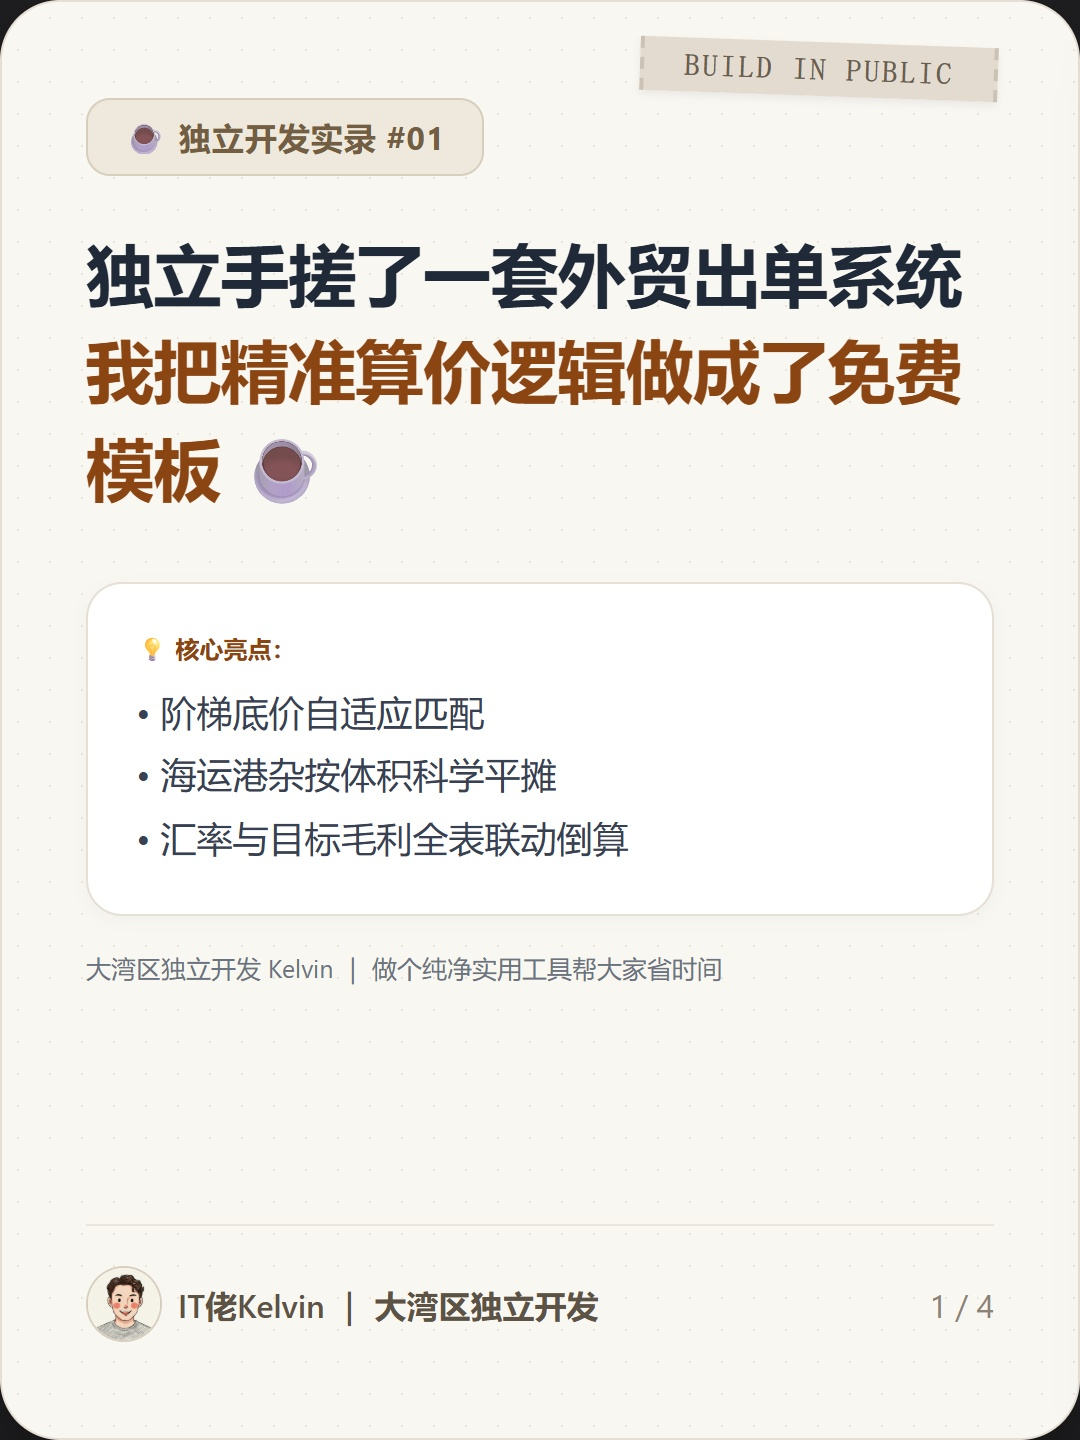
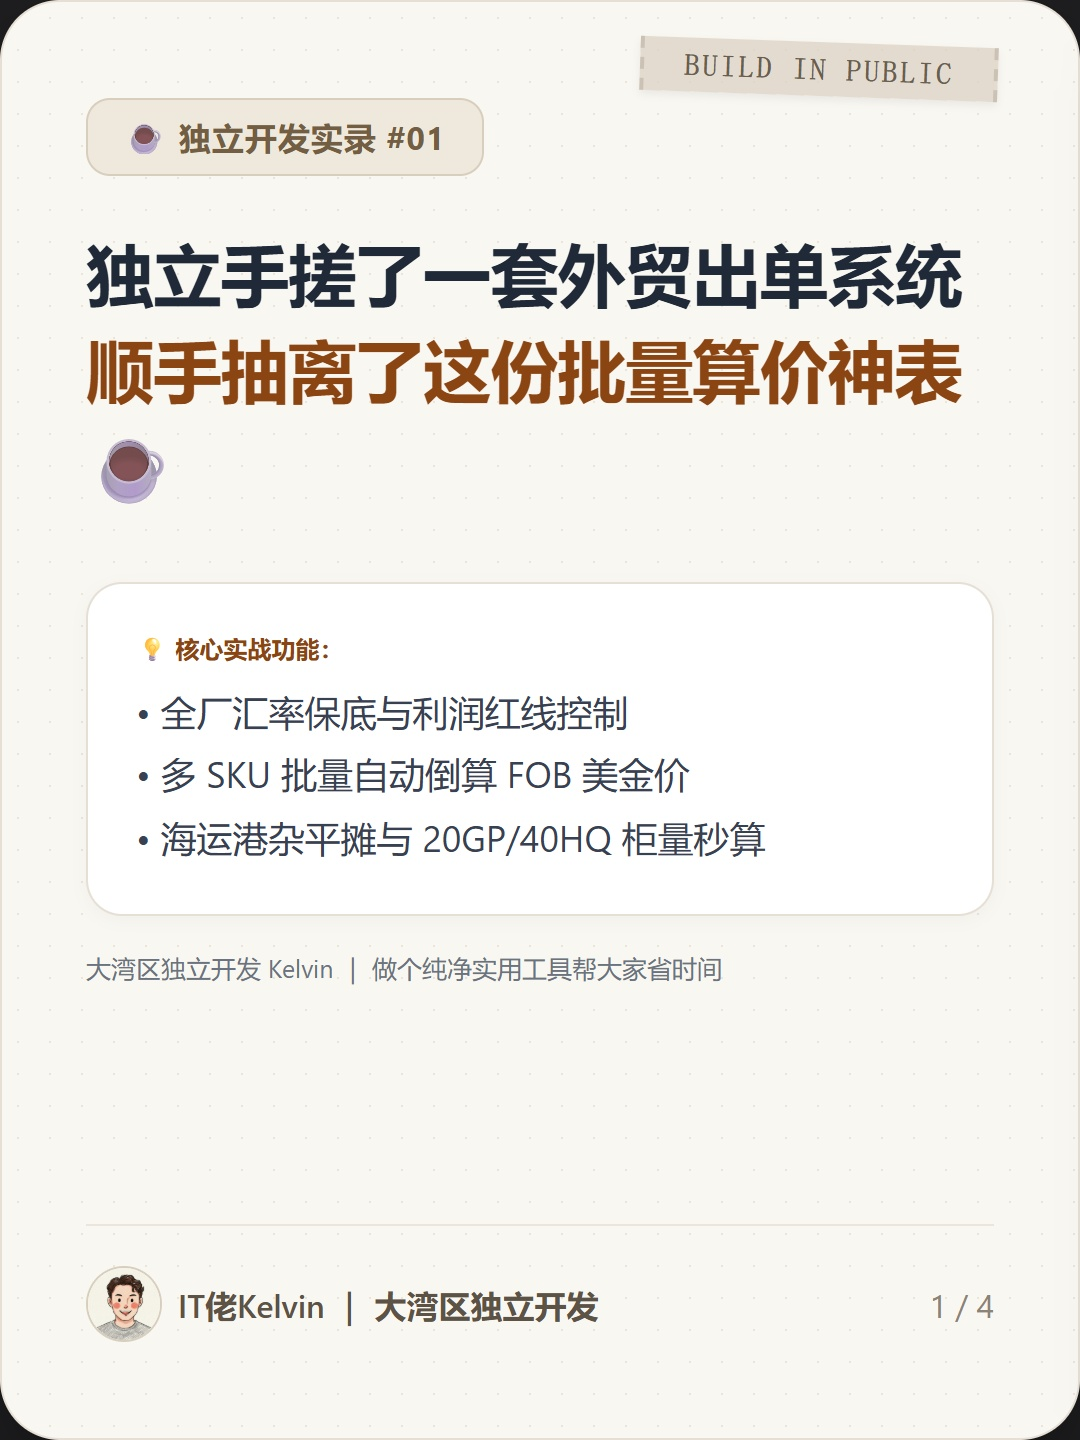
feat(lead_magnet): upgrade to KelvinFlow-native multi-SKU batch pricing master template

Changed region(s): [[0.0611, 0.2188, 0.8861, 0.375], [0.1528, 0.4375, 0.7028, 0.5938]]

diff --git a/cards/post1_carousel.html b/cards/post1_carousel.html
@@ -234,15 +234,15 @@
         <div class="tag tag-warm">☕ 独立开发实录 #01</div>
         <div class="card-title">
           独立手搓了一套外贸出单系统<br/>
-          <span class="highlight-brand">我把精准算价逻辑做成了免费模板 ☕</span>
+          <span class="highlight-brand">顺手抽离了这份批量算价神表 ☕</span>
         </div>
       </div>
       <div class="card-body">
         <div class="memo-box">
-          <div style="font-size: 12px; color: #8B4513; font-weight: bold; margin-bottom: 6px;">💡 核心亮点：</div>
-          <div>• 阶梯底价自适应匹配</div>
-          <div>• 海运港杂按体积科学平摊</div>
-          <div>• 汇率与目标毛利全表联动倒算</div>
+          <div style="font-size: 12px; color: #8B4513; font-weight: bold; margin-bottom: 6px;">💡 核心实战功能：</div>
+          <div>• 全厂汇率保底与利润红线控制</div>
+          <div>• 多 SKU 批量自动倒算 FOB 美金价</div>
+          <div>• 海运港杂平摊与 20GP/40HQ 柜量秒算</div>
         </div>
         <p style="font-size: 12.5px; color: #6B7280; margin-top: 6px;">
           大湾区独立开发 Kelvin ｜ 做个纯净实用工具帮大家省时间
@@ -271,15 +271,15 @@
         <div class="memo-box">
           <div class="memo-row">
             <span>📌</span>
-            <span><b>型号繁多翻找费力</b>：买家询盘数量不一，要在底价表里逐个找阶梯底价；</span>
+            <span><b>型号繁多逐个重算</b>：买家发来一堆 SKU，要在表格里一个个按计算器换算；</span>
           </div>
           <div class="memo-row">
             <span>📌</span>
-            <span><b>港杂平摊容易漏算</b>：海运固定杂费与报关费漏分摊，导致单单利润算薄；</span>
+            <span><b>港杂平摊容易漏算</b>：海运进仓与报关费漏平摊，导致单单利润被吃空；</span>
           </div>
           <div class="memo-row">
             <span>📌</span>
-            <span><b>汇率变动反复修改</b>：结汇汇率波动，需要一个个 SKU 重算美金单价。</span>
+            <span><b>汇率波动利润穿底</b>：汇率一跌慌忙改价，缺乏底线毛利自动预警。</span>
           </div>
         </div>
       </div>
@@ -299,26 +299,26 @@
         <div class="tag tag-blue">🛠 提炼自独立开发引擎</div>
         <div class="card-title">
           给外贸老友的轻量解法：<br/>
-          <span class="highlight-brand">《外贸精准核价 Excel 模板》</span>
+          <span class="highlight-brand">《外贸出厂核算与批量算价神表》</span>
         </div>
       </div>
       <div class="card-body">
         <div class="memo-box">
           <div class="memo-row">
             <span>✅</span>
-            <span><b>阶梯底价自动匹配</b>：输入采购数量，自动命中底价；</span>
+            <span><b>全局汇率与风控台</b>：锁定汇率与保底毛利，全厂产品即时生效；</span>
           </div>
           <div class="memo-row">
             <span>✅</span>
-            <span><b>FOB 港杂科学平摊</b>：按体积自动分摊单件成本；</span>
+            <span><b>多 SKU 批量自动倒算</b>：录入底价装箱量，右侧秒出美金价与柜量；</span>
           </div>
           <div class="memo-row">
             <span>✅</span>
-            <span><b>目标毛利汇率联动</b>：填入汇率毛利，精准倒算美金价；</span>
+            <span><b>单件港杂科学平摊</b>：自动均摊进仓费与港杂，彻底杜绝隐形亏损；</span>
           </div>
           <div class="memo-row">
             <span>✅</span>
-            <span><b>核心公式锁定保护</b>：绿色填数黄色出结果，防误改。</span>
+            <span><b>买家脱敏报价单导出</b>：底价全脱敏，一键导出正式纯净外贸报价单。</span>
           </div>
         </div>
       </div>
@@ -345,11 +345,11 @@
         <div class="memo-box">
           <div style="font-weight: 700; color: #2E7D32; margin-bottom: 8px;">📦 获取方式：</div>
           <div style="line-height: 1.65;">
-            进入主页点击<b>【群聊】</b>进官方交流群，在<b>【群文件】</b>即可直接免费下载《2026外贸精准核价Excel模板》。
+            进入主页点击<b>【群聊】</b>进官方交流群，在<b>【群文件】</b>即可直接免费下载《2026外贸出厂核算控制台与批量算价神表_Kelvin旗舰版》。
           </div>
         </div>
         <p style="font-size: 12.5px; color: #4B5563; line-height: 1.6; margin-top: 10px;">
-          💬 平时处理询盘邮件或表格最烦哪个环节？欢迎在评论区交流，我很乐意用技术帮大家一步步优化解决。
+          💬 平时批量核价或做英文报价单最烦哪个环节？欢迎在评论区交流，我很乐意用技术帮大家一步步优化解决。
         </p>
       </div>
       <div class="card-footer">

diff --git a/scripts/xiaohongshu/post_01_master_ready.md b/scripts/xiaohongshu/post_01_master_ready.md
@@ -51,12 +51,12 @@
 
 ### 【Card 3：交付（轻量确定性解法）】
 * **顶部 Tag**：`🛠 提炼自独立开发引擎`（静谧蓝质感标）
-* **小标题**：**给外贸老友的轻量解法：《外贸精准核价 Excel 模板》**
+* **小标题**：**给外贸老友的轻量解法：《外贸出厂核算与批量算价神表》**
 * **功能清单框（完全对应真实 Excel 模板）**：  
-  * ✅ **阶梯底价自动匹配**：输入采购数量，自动命中底价，告别手动翻表；
-  * ✅ **FOB 港杂科学平摊**：按 CBM 体积自动分摊单件成本，避免漏算杂费；
-  * ✅ **目标毛利汇率联动**：手动填入结算汇率与期望毛利，全表自动倒算精准美金单价；
-  * ✅ **核心公式锁定保护**：绿色填数据、黄色自动出结果，普通 Excel / WPS 即可直接用。
+  * ✅ **全局汇率与风控台**：锁定汇率与保底毛利，全厂产品即时生效；
+  * ✅ **多 SKU 批量自动倒算**：录入底价装箱量，右侧秒出美金价与柜量；
+  * ✅ **单件港杂科学平摊**：自动均摊进仓费与港杂，彻底杜绝隐形亏损；
+  * ✅ **买家脱敏报价单导出**：底价全脱敏，一键导出正式纯净外贸报价单。
 * **页脚作者标识**：`实用工具交付` ｜ `3 / 4`
 
 ---
@@ -65,8 +65,8 @@
 * **顶部 Tag**：`🎁 实用工具箱自取`（薄荷绿质感标）
 * **主标题**：**纯净核价模板已备好，主页官方群聊自取 ☕**
 * **自取路径框**：  
-  * 📦 **获取方式**：进入主页点击**【群聊】**进官方交流群，在**【群文件】**即可直接免费下载《2026外贸精准核价Excel模板》。
-* **引导交流**：💬 平时处理询盘邮件或表格最烦哪个环节？非常欢迎在评论区交流，我很乐意用代码帮大家一步步优化解决。
+  * 📦 **获取方式**：进入主页点击**【群聊】**进官方交流群，在**【群文件】**即可直接免费下载《2026外贸出厂核算控制台与批量算价神表_Kelvin旗舰版》。
+* **引导交流**：💬 平时批量核价或做英文报价单最烦哪个环节？非常欢迎在评论区交流，我很乐意用技术帮大家一步步优化解决。
 * **页脚作者标识**：`IT佬Kelvin ｜ 大湾区独立开发` ｜ `4 / 4`
 
 ---
@@ -78,21 +78,19 @@
 
 过去这段时间，我一直在专注做一件事：独立做一套外贸智能出单与审单系统（KelvinFlow）。
 
-在研发这套系统的过程中，我深入梳理了大量外贸业务的真实出单流程。我发现做外贸的朋友，每天最繁琐、最耗费心力的工作之一，就是处理海外客户各种各样的非标询盘邮件：
-买家发来一堆型号和数量，业务员要在工厂底价表里一个个对型号、核对阶梯底价、计算 FOB 港杂费分摊，再根据汇率折算成美金单价，最后还要手动排版正式的英文报价单……整个过程琐碎且容错率低。
+在研发这套系统的过程中，我深入梳理了大量工贸一体与外贸业务的真实出单流程。我发现做外贸的朋友，每天最繁琐、最耗费心力的工作之一，就是面对海外买家发来各种各样的非标询盘邮件：
+买家一封邮件发来十几个甚至几十个型号，业务员要翻出工厂底价表一个个查底价、换算美元汇率、手动平摊海运港杂、还要心算 20GP/40HQ 能装多少箱……整个过程繁琐而且特别容易算错毛利。
 
-为了让日常核价稍微轻松一些，我在系统底层把这套确定性的核价算法（阶梯底价自适应匹配、FOB 港杂平摊、目标毛利与汇率倒算）全部跑通了。
+为了让大家在日常核价时不再反复按计算器，我把我出单引擎底层那套确定性的批量算价模型，单独抽离成了一套纯净的《外贸出厂核算控制台与批量算价神表》免费分享给大家：
 
-同时，考虑到很多朋友平时习惯用离线表格，我就花时间把这套核心算价模型单独抽离出来，做成了一个纯净的《外贸精准核价 Excel 模板》免费分享给大家：
+1⃣ 全局汇率与风控控制台：预置了多币种内部锁定汇率，设定全厂保底毛利（如15%）与防穿底红线（如8%），全厂产品即时联动生效；
+2⃣ 多 SKU 批量自动秒算：告别单品反复倒腾，批量录入产品底价与外箱体积，右侧全量产品自动批量倒算出精准的 FOB 美金单价；
+3⃣ 港杂平摊与集装箱柜量秒查：自动把进仓费与海运港杂平摊到单件成本中，并根据箱规自动算出 20GP 小柜与 40HQ 高柜的满载件数；
+4⃣ 买家纯净脱敏报价单：附带了专属的对外纯净商业报价页，工厂底价与利润率全部隐藏脱敏，可直接导出 PDF 发给海外买家。
 
-1⃣ 阶梯底价自动匹配：输入采购数量，自动命中对应的阶梯底价，告别手动翻找底价表；
-2⃣ FOB 港杂科学平摊：预置了海运港杂按体积单件平摊的计算逻辑，避免漏算杂费；
-3⃣ 目标毛利与汇率倒算：填入当前结算汇率和期望毛利率，全表自动联动倒算出精准的美金 FOB 单价和订单毛利；
-4⃣ 核心公式全部锁定：普通 Excel / WPS 就能直接用，绿色区域填数据，黄色区域自动出结果，防止不小心改乱公式。
+模板已经整理在主页的粉丝群文件里了（名字是《2026外贸出厂核算控制台与批量算价神表_Kelvin旗舰版》），点击主页群聊就能免费下载，普通 Excel 或 WPS 都能直接用 ☕
 
-模板已经整理在主页的粉丝群文件里了，点击主页群聊就能随时下载，希望能帮外贸朋友们在日常核价时分担掉一些繁琐的计算 ☕
-
-如果你平时每天收到很多海外询盘邮件，厌倦了在 Excel 里手动复制粘贴排版，或者在日常表格处理中遇到了其他繁琐耗时的流程，非常欢迎在评论区留言交流，我很乐意用技术尝试帮大家一步步优化解决。
+如果大家平时在批量核价、或者整理几百个型号的报价单时遇到了卡壳繁琐的环节，非常欢迎在评论区留言交流，我很乐意用代码帮大家一步步优化解决。
 
 ---
 #外贸业务员 #外贸人日常 #Excel技巧 #外贸核价 #独立开发 #出海工具 #办公效率
@@ -105,7 +103,7 @@
 发布后 30 秒内，博主自行在笔记下方发布首条评论并**设为置顶**：
 
 > **作者置顶评论**：  
-> “各位外贸老友平时核价算 FOB，最容易被哪个小环节卡住？是算阶梯底价、算体积平摊、还是临时倒算汇率？非常欢迎在评论区聊聊，下期我来针对大家票选最多的痛点，尝试做轻量自动化分享 ☕”
+> “各位外贸老友平时给买家批量核算 FOB，最容易被哪个小环节卡住？是多型号批量换算美金、算整柜装箱量、还是临时倒算汇率？非常欢迎在评论区聊聊，下期我来针对大家票选最多的痛点，尝试做轻量自动化分享 ☕”
 
 ---
 
@@ -116,12 +114,12 @@
 ### 1. 询问如何领模板
 * **用户提问**：“怎么领？” / “模板在哪里？” / “求发一份”
 * **官方回复**：  
-  > “老友，点击我的主页，下方有官方【群聊】入口，进入群聊后在【群文件】就可以直接下载了，绿色区域填数据黄色区域出结果，普通 Excel 直接可用 ☕”
+  > “老友，点击我的主页，下方有官方【群聊】入口，进入群聊后在【群文件】就可以直接下载《2026外贸出厂核算控制台与批量算价神表_Kelvin旗舰版》，录入底价后右侧黄色区域批量自动出美金价和柜量，普通 Excel / WPS 直接可用 ☕”
 
 ### 2. 询问模板使用与修改
 * **用户提问**：“公式可以自己修改吗？” / “汇率怎么更新？”
 * **官方回复**：  
-  > “表格里的绿色单元格是数据输入区（比如中行结算汇率、数量和期望毛利），填入后黄色结果区会自动联动倒算；黄色公式区做了锁定保护是为了防止平时手滑改乱公式。如果需要按自己的特殊业务调整逻辑，在群里随时找我交流 👨💻”
+  > “在第1个【⚙ 全局核算参数】表里填好公司的锁定汇率和保底毛利，第2个表里的所有产品就会自动批量联动重算；如果需要按自己公司的特殊业务规则微调，在群里随时找我交流 👨💻”
 
 ### 3. 同行交流与夸奖
 * **用户提问**：“挺实用的，支持独立开发者！” / “大湾区老表点赞”
@@ -131,7 +129,7 @@
 ### 4. 业务量大、询问自动出单与 SaaS
 * **用户提问**：“我们每天几十封询盘，这个表格要是一个个填还是挺耗时间，有没有更自动的？”
 * **官方回复**：  
-  > “确实，离线 Excel 适合单次快速核价；如果有大量非标英文邮件和 PDF 询盘，手动录入确实耗时间。我底层做的 KelvinFlow 系统就是专门解决这个场景的（直接转发邮件、10秒自动出英文PDF报价单）。你可以进群私聊我，我给你开个试用权限深度体验看看 ☕”
+  > “确实，离线 Excel 适合日常管理公司底价与批量算价；如果有大量非标英文邮件和 PDF 询盘，手动录入确实耗时间。我底层做的 KelvinFlow 系统原生兼容这份表格（表格直接上传，系统自动拆解邮件、10秒出英文PDF报价单）。你可以进群私聊我，我给你免审开通试用权限深度体验看看 ☕”
 
 ---
 
@@ -139,6 +137,6 @@
 
 - [x] **合规扫描**：已运行 `python tools/check_compliance.py`，0 违规词，0 导流词；
 - [x] **主页五件套**：头像 (`avatar_kelvin_crayon_exact_match.jpg`) 与背景图 (`profile_banner_crayon_craft.jpg`) 装修完毕；
-- [x] **群聊组件开启**：主页已创建《IT佬Kelvin 的出海工具交流群》，群文件已上传《2026外贸精准核价Excel模板.xlsx》；
+- [x] **群聊组件开启**：主页已创建《IT佬Kelvin 的出海工具交流群》，群文件已上传《2026外贸出厂核算控制台与批量算价神表_Kelvin旗舰版.xlsx》；
 - [x] **图片比例检查**：4 张图片严格保持 3:4 比例，无裁切风险；
 - [x] **发布环境安全**：手机使用 4G/5G 蜂窝网络，关闭公共 Wi-Fi，在小红书 App 打开【创作者中心】发布。
